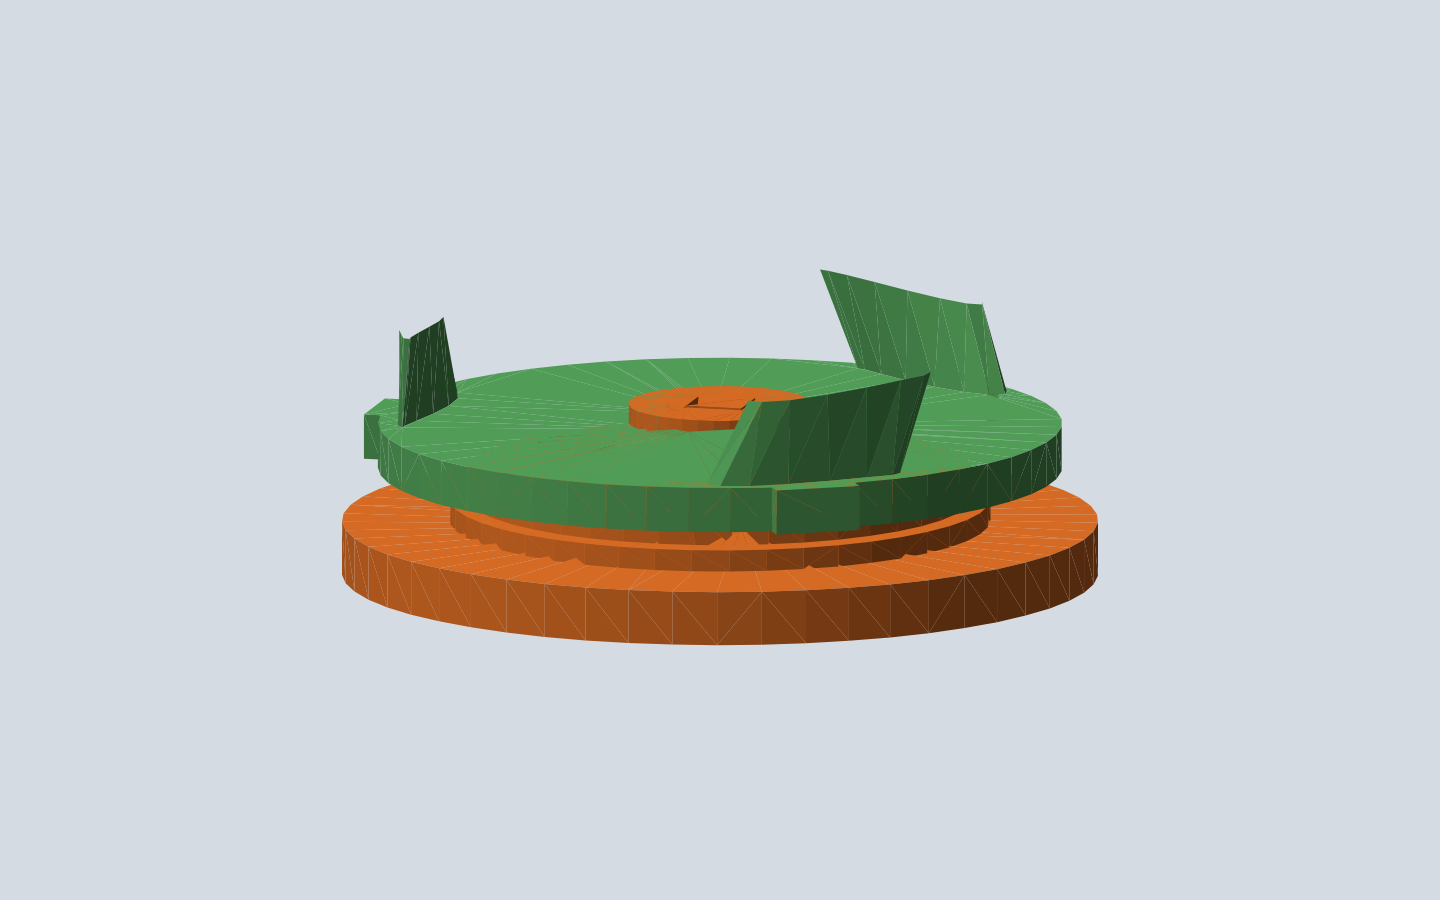
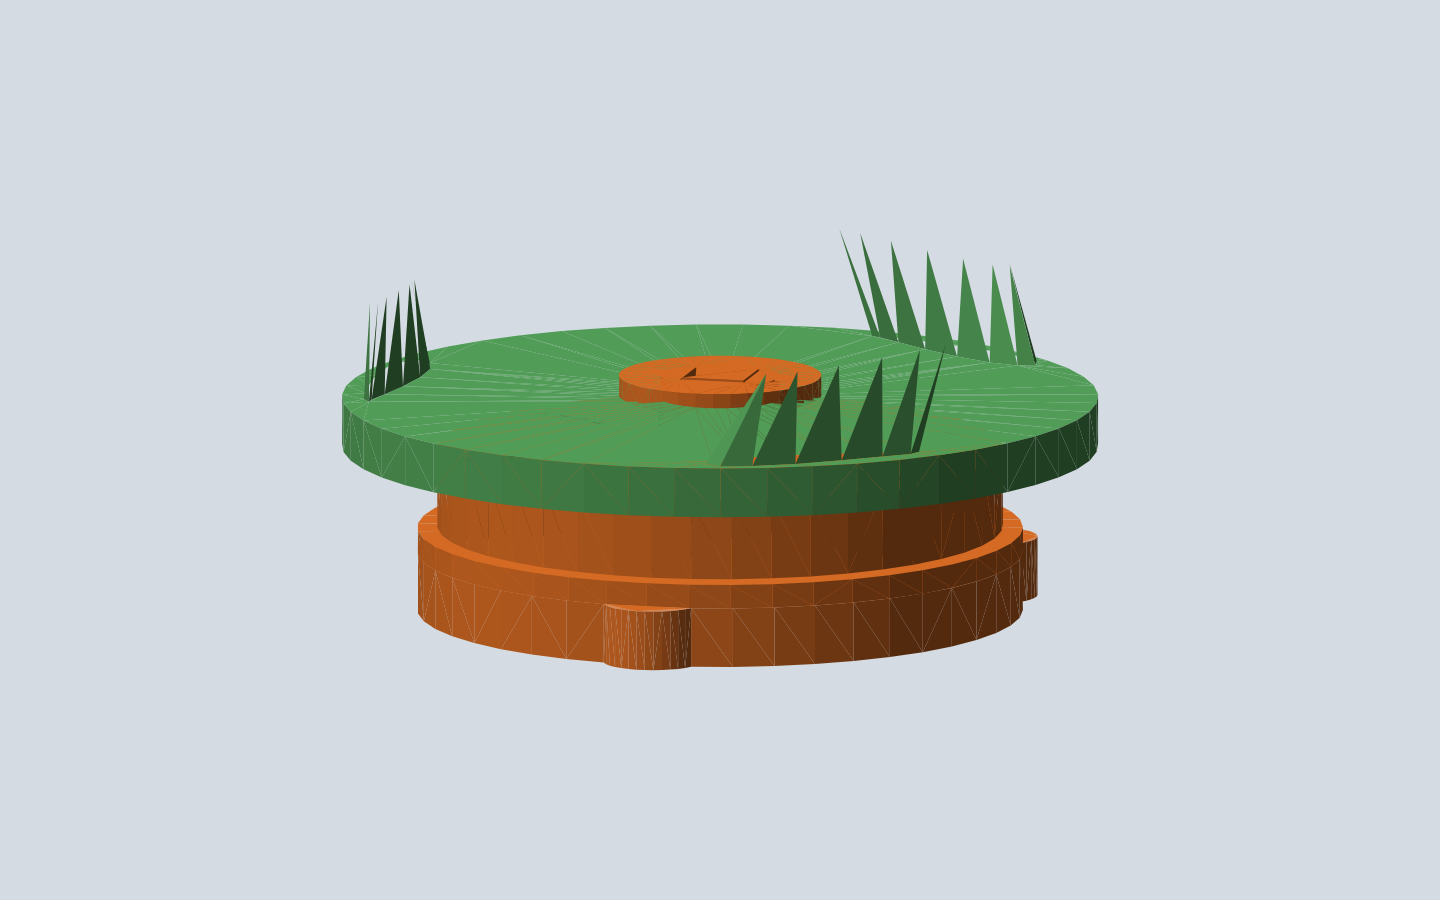
docs(print-kit): radial-axis review shots after green exam
Cage is 8 mm (roller diameter). Rollers lie with axis along e_r. Square stator post is still 24 mm to the retainer — that is not a drum.

Changed region(s): [[0.2188, 0.28, 0.7812, 0.7467]]

diff --git a/docs/agentic/print-kit-review/README.md b/docs/agentic/print-kit-review/README.md
@@ -1,7 +1,9 @@
 # Print-kit review shots (2026-08-17)
 
-Assembled iso hides the pack. `pack` hides the rotor so the **radial-axis**
-rollers are visible. `races` looks up from under the plate (base and axle
-hidden). `hub` is a close stack.
+Radial-axis thin thrust. Pack height is the roller diameter (exam Ø8 × L9.6
+on PCD 44). `pack` hides the rotor so the lying rollers / radial windows
+are visible. `races` looks up from under the plate. `hub` is a close stack.
+`side` shows the short pack under the plate; the square stator post is
+supposed to reach the retainer — that is not a drum.
 
 These are the check renders from `npm run render:print-kit`, copied here so they are not stuck in gitignored `docs/qa/`.
